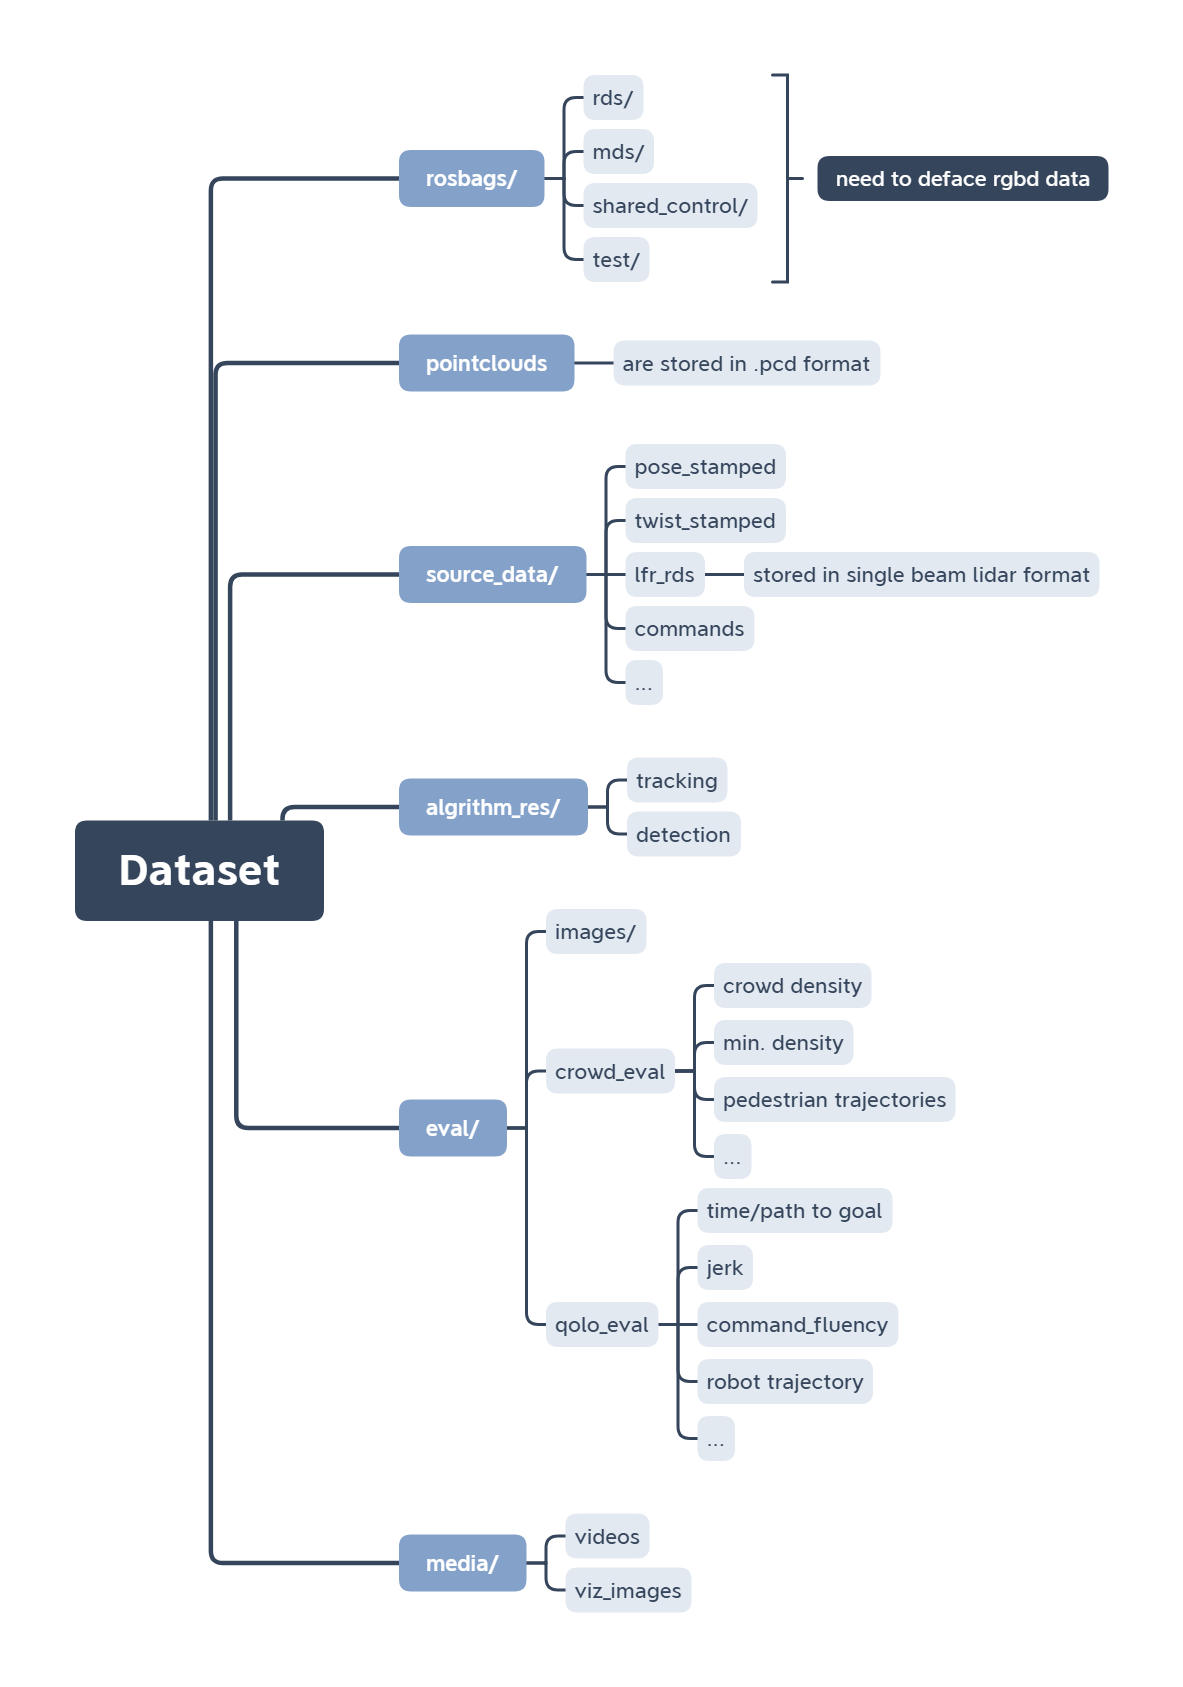
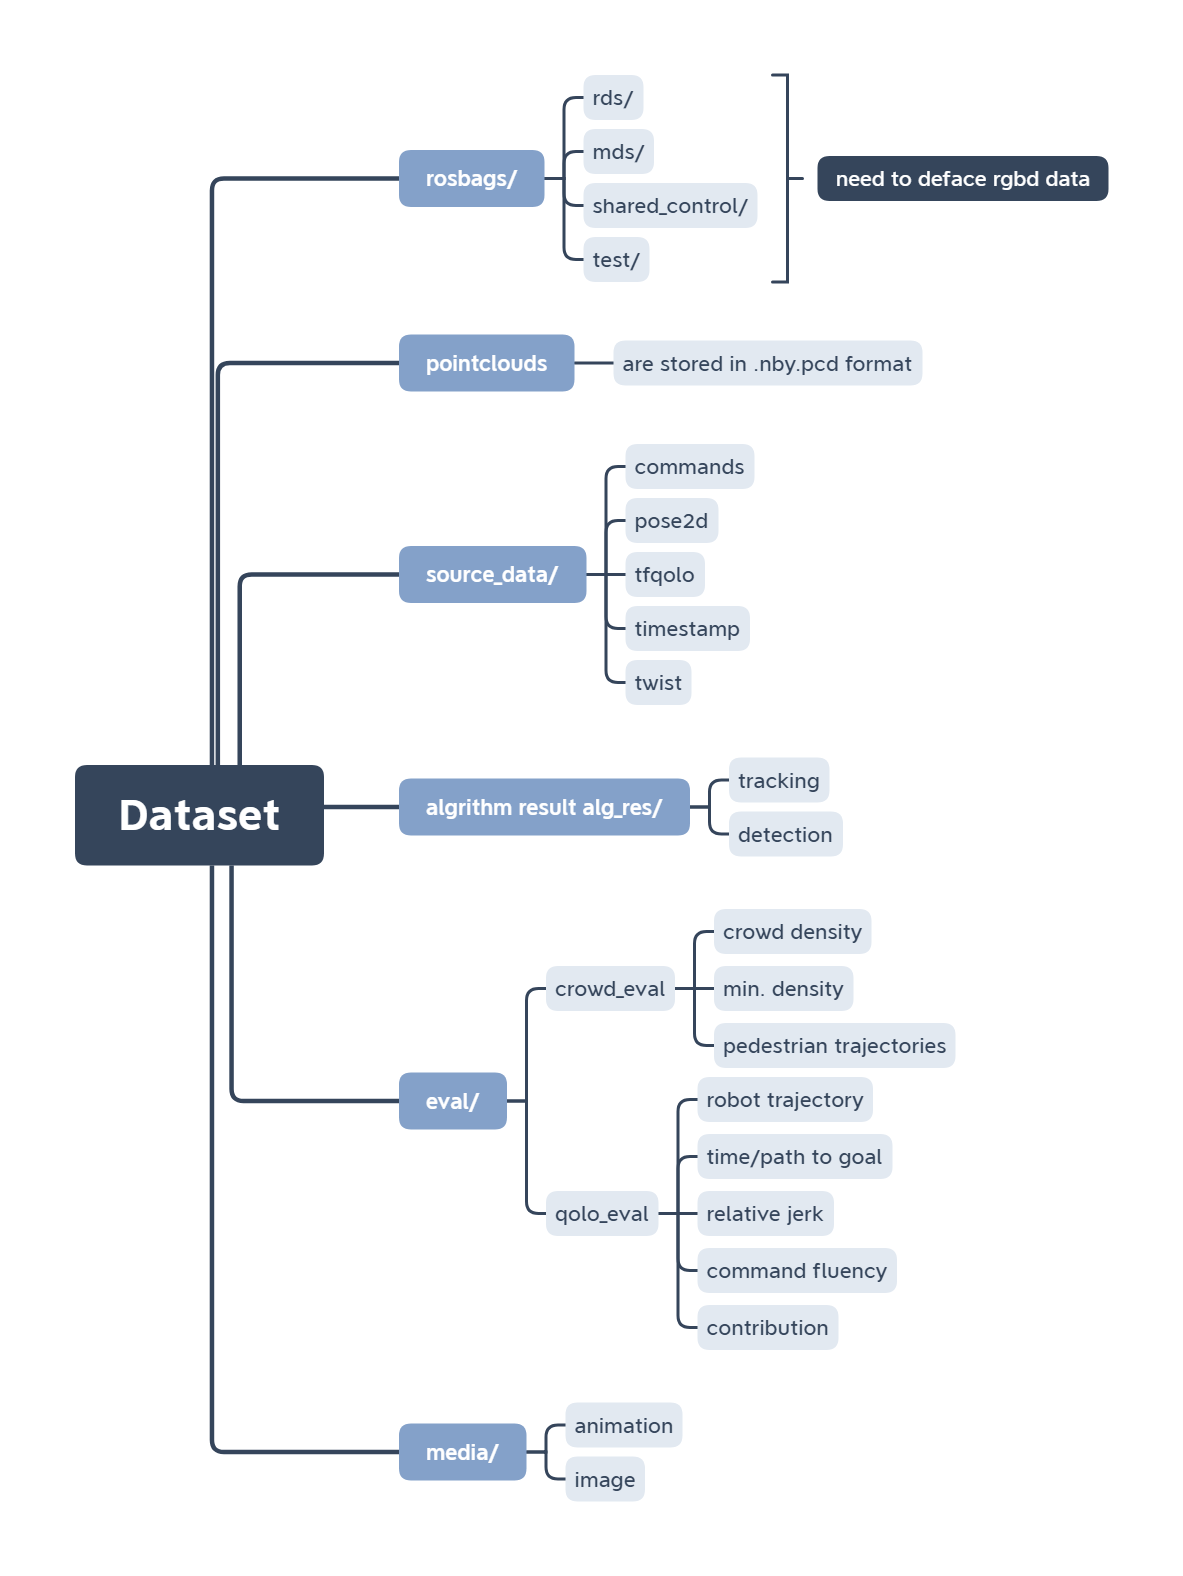
update relative path for timestamp & clear the code

Changed region(s): [[0.0609, 0.0311, 0.9434, 0.9638], [0.6695, 0.0933, 0.9434, 0.1555]]

diff --git a/qolo/twist2npy.py b/qolo/twist2npy.py
@@ -14,11 +14,6 @@ The module provides workflow to extract twist msg from rosbag and compute
 acceleration, jerk by taking derivatives.
 """
 # =============================================================================
-"""
-TODO:
-1. fixed NaN exists in acc and jerk
-"""
-# =============================================================================
 
 import os
 import sys
@@ -234,9 +229,10 @@ if __name__ == "__main__":
                 ).item()
 
             # twist_sampled
-            # np.diff(lidar_stamped)[0] == 0.0
+            lidar_stamp_dir = os.path.join(cb_data.source_data_dir, "timestamp")
+            stamp_file_path = os.path.join(lidar_stamp_dir, bag_name + "_stamped.npy")
             lidar_stamped = np.load(
-                os.path.join(cb_data.lidar_dir, bag_name + "_stamped.npy"),
+                stamp_file_path,
                 allow_pickle=True,
             ).item()
 
@@ -257,15 +253,14 @@ if __name__ == "__main__":
             )
 
             # acc_sampled
-            # generate from this step!!!
-            # np.diff(twist_sampled_dict['timestamp'])[0] == 0.0 => True
             acc_sampled_dict = compute_motion_derivative(twist_sampled_dict)
-            print(
-                "NaN index in x_acc: {}\nNaN index in zrot_acc: {}".format(
-                    np.squeeze(np.argwhere(np.isnan(acc_sampled_dict["x"]))),
-                    np.squeeze(np.argwhere(np.isnan(acc_sampled_dict["zrot"]))),
-                ),
-            )
+            # existing NaN due to different duration of timestamp!
+            # print(
+            #     "NaN index in x_acc: {}\nNaN index in zrot_acc: {}".format(
+            #         np.squeeze(np.argwhere(np.isnan(acc_sampled_dict["x"]))),
+            #         np.squeeze(np.argwhere(np.isnan(acc_sampled_dict["zrot"]))),
+            #     ),
+            # )
             acc_sampled_dict["x"][np.isnan(acc_sampled_dict["x"])] = 0.0
             acc_sampled_dict["zrot"][np.isnan(acc_sampled_dict["zrot"])] = 0.0
             qolo_command_dict.update({"x_acc": acc_sampled_dict["x"]})
@@ -273,12 +268,13 @@ if __name__ == "__main__":
 
             # jerk_sampled
             jerk_sampled_dict = compute_motion_derivative(acc_sampled_dict)
-            print(
-                "NaN index in x_jerk: {}\nNaN index in zrot_jerk: {}".format(
-                    np.squeeze(np.argwhere(np.isnan(jerk_sampled_dict["x"]))),
-                    np.squeeze(np.argwhere(np.isnan(jerk_sampled_dict["zrot"]))),
-                ),
-            )
+            # existing NaN due to different duration of timestamp!
+            # print(
+            #     "NaN index in x_jerk: {}\nNaN index in zrot_jerk: {}".format(
+            #         np.squeeze(np.argwhere(np.isnan(jerk_sampled_dict["x"]))),
+            #         np.squeeze(np.argwhere(np.isnan(jerk_sampled_dict["zrot"]))),
+            #     ),
+            # )
             jerk_sampled_dict["x"][np.isnan(jerk_sampled_dict["x"])] = 0.0
             jerk_sampled_dict["zrot"][np.isnan(jerk_sampled_dict["zrot"])] = 0.0
             qolo_command_dict.update({"x_jerk": jerk_sampled_dict["x"]})
@@ -289,28 +285,5 @@ if __name__ == "__main__":
             )
 
             np.save(command_sampled_filepath, qolo_command_dict)
-
-        """
-        acc_dir = os.path.join(cb_data.source_data_dir, "acc")
-        if not os.path.exists(acc_dir):
-            os.makedirs(acc_dir)
-
-        # sample with lidar frame
-        acc_sampled_filepath = os.path.join(acc_dir, bag_name + "_acc_sampled.npy")
-
-        if (not os.path.exists(acc_sampled_filepath)) or (args.overwrite):
-            if not ("lidar_stamped" in locals().keys()):
-                lidar_stamped = np.load(
-                    os.path.join(cb_data.lidar_dir, bag_name + "_stamped.npy"),
-                    allow_pickle=True,
-                ).item()
-            if not ("twist_sampled_dict" in locals().keys()):
-                twist_sampled_dict = np.load(
-                    command_sampled_filepath, allow_pickle=True
-                ).item()
-
-            acc_sampled_dict = compute_motion_derivative(twist_sampled_dict)
-            np.save(acc_sampled_filepath, acc_sampled_dict)
-        """
 
     print("Finish extracting all twist & computing derivate of twist (qolo_command)!")

diff --git a/qolo/gen_lidar_from_rosbags.py b/qolo/gen_lidar_from_rosbags.py
@@ -188,9 +188,9 @@ def extract_lidar_from_rosbag(bag_path, out_dir, args):
         "timestamp": np.asarray(ts_list, dtype=np.float64),
         "id": np.array(frame_id),
     }
-    bagname = out_dir.split("/")[-1]
-    stamp_file_path = os.path.join(out_dir, "..", bagname + "_stamped.npy")
-    np.save(stamp_file_path, lidar_stamped_dict)
+    # bag_name = out_dir.split("/")[-1]
+    # stamp_file_path = os.path.join(out_dir, "..", bag_name + "_stamped.npy")
+    # np.save(stamp_file_path, lidar_stamped_dict)
 
     s = (
         "Summary\n"
@@ -203,6 +203,8 @@ def extract_lidar_from_rosbag(bag_path, out_dir, args):
     )
     print(s)
 
+    return lidar_stamped_dict
+
 
 if __name__ == "__main__":
     parser = argparse.ArgumentParser(description="convert data from rosbag")
@@ -210,7 +212,7 @@ if __name__ == "__main__":
     parser.add_argument(
         "-f",
         "--folder",
-        default="shared_test",
+        default="1203_test",
         type=str,
         help="different subfolder in rosbag/ dir",
     )
@@ -251,28 +253,37 @@ if __name__ == "__main__":
     rosbag_dir = os.path.join(qolo_dataset.bagbase_dir, args.folder)
     bag_files = list(filter(bag_file_filter, os.listdir(rosbag_dir)))
 
-    # destination: lidar data in data/xxxx_processed/lidars
+    # destination: lidar data in xxxx_processed/lidars
     data_processed = args.folder + "_processed"
-    # data_processed_dir = os.path.join(base_folder, "data", data_processed)
     data_processed_dir = os.path.join(qolo_dataset.outbase_dir, data_processed)
     if not os.path.exists(data_processed_dir):
         os.makedirs(data_processed_dir)
     lidar_file_dir = os.path.join(data_processed_dir, "lidars")
+    lidar_stamp_dir = os.path.join(data_processed_dir, "source_data", "timestamp")
+    if not os.path.exists(lidar_stamp_dir):
+        os.makedirs(lidar_stamp_dir)
 
     print("Starting extracting lidar files from {} rosbags!".format(len(bag_files)))
 
     for idx, bf in enumerate(bag_files):
         bag_path = os.path.join(rosbag_dir, bf)
-        out_dir = os.path.join(lidar_file_dir, bf.split(".")[0])
+        bag_name = bf.split(".")[0]
+        out_dir = os.path.join(lidar_file_dir, bag_name)
         if not os.path.exists(out_dir):
             os.makedirs(out_dir)
         out_lidar_np = fnmatch.filter(os.listdir(out_dir), "*.nby")
-        out_pcd = fnmatch.filter(os.listdir(out_dir), "*.pcd")
 
         print("({}/{}): {}".format(idx + 1, len(bag_files), bag_path))
 
-        if (not out_pcd) or (args.overwrite):
-            extract_lidar_from_rosbag(bag_path, out_dir, args)
+        if args.overwrite:
+            lidar_stamped_dict = extract_lidar_from_rosbag(bag_path, out_dir, args)
+            print(
+                "lidar_stamped_dict with {} frames".format(
+                    len(lidar_stamped_dict['timestamp'])
+                )
+            )
+            stamp_file_path = os.path.join(lidar_stamp_dir, bag_name + "_stamped.npy")
+            np.save(stamp_file_path, lidar_stamped_dict)
         else:
             print("{} already extracted!!!".format(bf))
             continue

diff --git a/qolo/tfqolo2npy.py b/qolo/tfqolo2npy.py
@@ -17,8 +17,7 @@ compute velocity acceleration, jerk by taking derivatives.
 # =============================================================================
 """
 TODO:
-1. bottleneck -> time-comsuming when using rosbag to extract data
-2. better filter to position, quaternions, velocities, etc.
+1. better filter to position, quaternions, velocities, etc.
 """
 # =============================================================================
 
@@ -304,33 +303,6 @@ if __name__ == "__main__":
             print("Computing linear velocity!")
             position_g = state_dict["position"]
 
-            """
-            # create low-pass filter
-            # ref:
-            #   https://ipython-books.github.io/102-applying-a-linear-filter-to-a-digital-signal/
-            import scipy.signal as sg
-
-            # method1: Butterworth digital and analog filter design.
-            #   https://docs.scipy.org/doc/scipy/reference/generated/scipy.signal.butter.html
-            #   https://docs.scipy.org/doc/scipy/reference/generated/scipy.signal.sosfiltfilt.html#scipy.signal.sosfiltfilt
-            # 4-th order, cut-off around 50Hz, original data 200Hz
-            # sos = sg.butter(4, 100, fs=200, output='sos')
-            # Digital filter critical frequencies must be 0 < Wn < fs/2 (fs=200 -> fs/2=100.0)
-            sos = sg.butter(N=3, Wn=90, fs=200, output='sos')
-            # apply to global position
-            position_g = sg.sosfilt(sos, position_g)
-            # create low-pass filter
-
-
-            # method2: triangular window of a given length and type. (useless)
-            #   https://docs.scipy.org/doc/scipy/reference/generated/scipy.signal.get_window.html
-            triang_w = sg.get_window('triang', 21)  # 11 21 31 41 51
-            for dim in range(np.shape(position_g)[1]):
-                position_g[:, dim] = sg.convolve(
-                    position_g[:, dim], triang_w / triang_w.sum(), mode='same'
-                )
-            """
-
             # smooth with Savitzky-Golay filter
             print("Using Savitzky-Golay filter to smooth position!")
             if args.smooth:
@@ -529,8 +501,10 @@ if __name__ == "__main__":
             np.save(state_filepath, state_dict)
 
             # _stamped.npy
+            lidar_stamp_dir = os.path.join(cb_data.source_data_dir, "timestamp")
+            stamp_file_path = os.path.join(lidar_stamp_dir, seq + "_stamped.npy")
             lidar_stamped = np.load(
-                os.path.join(cb_data.lidar_dir, seq + "_stamped.npy"),
+                stamp_file_path,
                 allow_pickle=True,
             ).item()
             lidar_ts = lidar_stamped.get("timestamp")

diff --git a/qolo/eval_qolo_ctrl.py b/qolo/eval_qolo_ctrl.py
@@ -3,7 +3,7 @@
 # =============================================================================
 """
 @Author        :   Yujie He
-@File          :   eval_qolo.py
+@File          :   eval_qolo_ctrl.py
 @Date created  :   2021/11/09
 @Maintainer    :   Yujie He
 @Email         :   yujie.he@epfl.ch
@@ -183,10 +183,14 @@ if __name__ == "__main__":
         else:
             if (not os.path.exists(qolo_eval_npy)) or (args.overwrite):
 
-                # timestamp can be read from lidars/ folder
-                stamp_file_path = os.path.join(cb_data.lidar_dir, seq + "_stamped.npy")
-                lidar_stamped_dict = np.load(stamp_file_path, allow_pickle=True)
-                ts = lidar_stamped_dict.item().get("timestamp")
+                # timestamp can be read from tiemstamp/ folder
+                lidar_stamp_dir = os.path.join(cb_data.source_data_dir, "timestamp")
+                stamp_file_path = os.path.join(lidar_stamp_dir, seq + "_stamped.npy")
+                lidar_stamped = np.load(
+                    stamp_file_path,
+                    allow_pickle=True,
+                ).item()
+                ts = lidar_stamped.get("timestamp")
 
                 start_cmd_ts = path_eval_dict["start_command_ts"]
                 end_cmd_ts = path_eval_dict["end_command_ts"]

diff --git a/qolo/commands2npy.py b/qolo/commands2npy.py
@@ -128,7 +128,7 @@ if __name__ == "__main__":
     parser.add_argument(
         "-f",
         "--folder",
-        default="shared_test",
+        default="1203_test",
         type=str,
         help="different subfolder in rosbag/ dir",
     )
@@ -188,8 +188,10 @@ if __name__ == "__main__":
                 cmd_raw_dict = np.load(cmd_raw_filepath, allow_pickle=True).item()
 
             # sample with lidar frame
+            lidar_stamp_dir = os.path.join(cb_data.source_data_dir, "timestamp")
+            stamp_file_path = os.path.join(lidar_stamp_dir, bag_name + "_stamped.npy")
             lidar_stamped = np.load(
-                os.path.join(cb_data.lidar_dir, bag_name + "_stamped.npy"),
+                stamp_file_path,
                 allow_pickle=True,
             ).item()
             cmd_sampled_dict = interp_linear_dict(cmd_raw_dict, lidar_stamped)

diff --git a/qolo/pose2d2npy.py b/qolo/pose2d2npy.py
@@ -16,7 +16,6 @@ The module provides workflow to extract Pose2D msg from rosbag.
 """
 TODO:
 1. should specify which part of pose/odom data is saved instead of saving two many zeros
-2. interpolate to a reasonable timestamp (e.g., lidar frame)
 """
 # =============================================================================
 

diff --git a/README.md b/README.md
@@ -31,8 +31,8 @@
 | **Crowd density** (generated using [`eval_crowd.py`](https://github.com/epfl-lasa/crowdbot-evaluation-tools/blob/main/qolo/eval_crowd.py)) | <img src="./example/2021-04-24-11-35-54_crowd_density.png" alt="crowd_density"   width="500" > |
 | **Minimal distance** of pedestrian to Qolo (generated using [`eval_crowd.py`](https://github.com/epfl-lasa/crowdbot-evaluation-tools/blob/main/qolo/eval_crowd.py)) | <img src="./example/2021-04-24-11-35-54_min_dist.png" alt="min_dist"   width="500" > |
 | **Path efficiency** (generated using [`eval_qolo_path.py`](https://github.com/epfl-lasa/crowdbot-evaluation-tools/blob/main/qolo/eval_qolo_path.py)) | <img src="./example/2021-04-24-11-35-54_path.png" alt="path"   width="500" > |
-| **Qolo command** (generated using [`eval_qolo.py`](https://github.com/epfl-lasa/crowdbot-evaluation-tools/blob/main/qolo/eval_qolo.py)) | <img src="./example/2021-04-24-11-35-54_qolo_command.png" alt="command"   width="700" > |
-| **Qolo state** (generated using [`eval_qolo.py`](https://github.com/epfl-lasa/crowdbot-evaluation-tools/blob/main/qolo/eval_qolo.py)) | <img src="./example/2021-04-24-11-35-54_qolo_state.png" alt="state"   width="700" > |
+| **Qolo command** (generated using [`eval_qolo_ctrl.py`](https://github.com/epfl-lasa/crowdbot-evaluation-tools/blob/main/qolo/eval_qolo_ctrl.py)) | <img src="./example/2021-04-24-11-35-54_qolo_command.png" alt="command"   width="700" > |
+| **Qolo state** (generated using [`eval_qolo_ctrl.py`](https://github.com/epfl-lasa/crowdbot-evaluation-tools/blob/main/qolo/eval_qolo_ctrl.py)) | <img src="./example/2021-04-24-11-35-54_qolo_state.png" alt="state"   width="700" > |
 
 
 ## References:

diff --git a/docs/quickstart.md b/docs/quickstart.md
@@ -95,7 +95,7 @@
         ```shell
         python3 qolo/eval_qolo_path.py --overwrite -f 0410_shared_control
         python3 qolo/eval_crowd.py --overwrite -f 0410_shared_control
-        python3 qolo/eval_qolo.py --overwrite -f 0410_shared_control
+        python3 qolo/eval_qolo_ctrl.py --overwrite -f 0410_shared_control
         ```
 
         - `--overwrite` flag is used to overwrite existing data
@@ -105,7 +105,7 @@
         ```shell
         python qolo/eval_qolo_path.py --replot -f 0410_shared_control
         python qolo/eval_crowd.py --replot -f 0410_shared_control
-        python qolo/eval_qolo.py --replot -f 0410_shared_control
+        python qolo/eval_qolo_ctrl.py --replot -f 0410_shared_control
         ```
 
         - `--replot` flag is used to replot resulting data

diff --git a/docs/readme_all.md b/docs/readme_all.md
@@ -441,12 +441,12 @@ results will be saved into `metrics/` subfolder
 #### run the crowd evaluation code
 
 ```sh
-python3 qolo/eval_qolo.py -f nocam_rosbags
-python3 qolo/eval_qolo.py -f 0424_shared_control
-python3 qolo/eval_qolo.py -f 0424_rds_detector
+python3 qolo/eval_qolo_ctrl.py -f nocam_rosbags
+python3 qolo/eval_qolo_ctrl.py -f 0424_shared_control
+python3 qolo/eval_qolo_ctrl.py -f 0424_rds_detector
 
-python3 qolo/eval_qolo.py -f nocam_rosbags --overwrite
-python3 qolo/eval_qolo.py -f nocam_rosbags --replot
+python3 qolo/eval_qolo_ctrl.py -f nocam_rosbags --overwrite
+python3 qolo/eval_qolo_ctrl.py -f nocam_rosbags --replot
 ```
 
 results will be saved into `metrics/` subfolder
